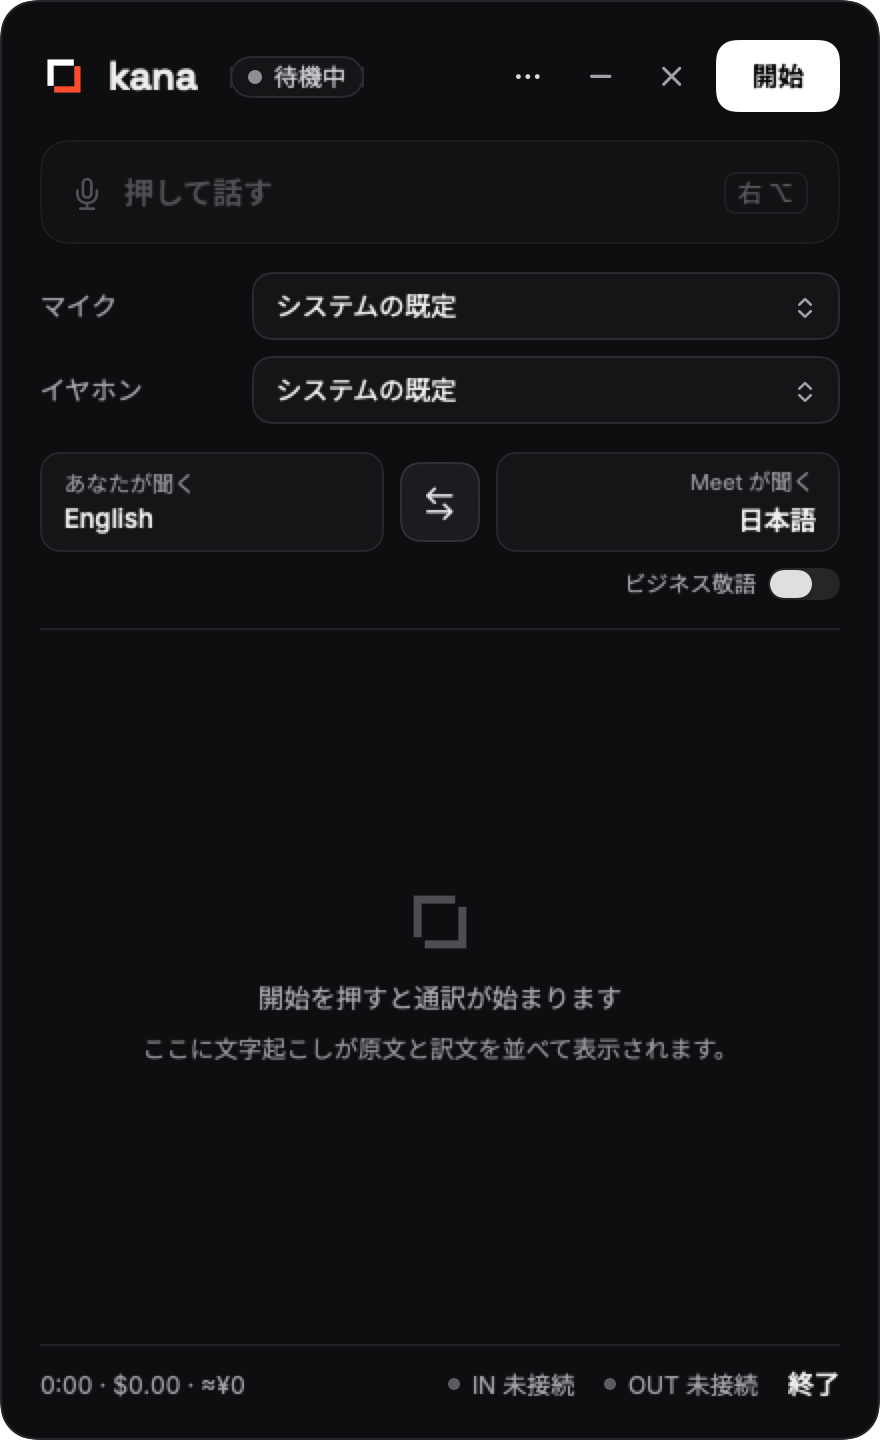
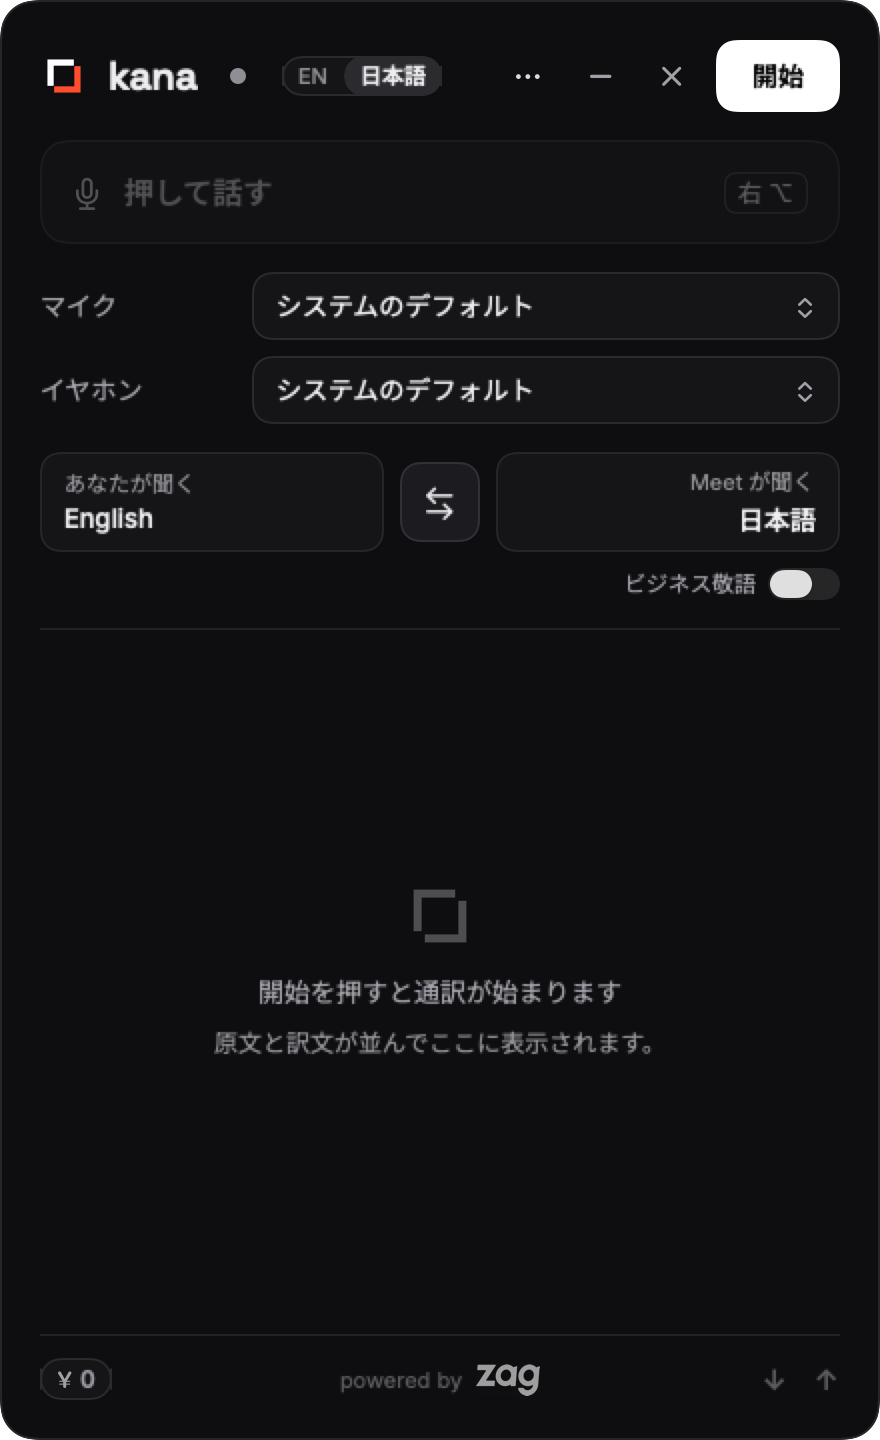
Language switch, first-run language card, Japanese proofread (snapshot of main)

diff --git a/app/Sources/Kana/LangSwitch.swift b/app/Sources/Kana/LangSwitch.swift
@@ -1,0 +1,62 @@
+import SwiftUI
+
+/// EN | 日本語, the visible UI-language switch (header of the panel and of Setup). Sets the
+/// override in Prefs, so it applies live; ••• › Language still offers "System".
+struct LangSwitch: View {
+    @EnvironmentObject private var prefs: Prefs
+
+    var body: some View {
+        HStack(spacing: 0) {
+            segment("EN", .en)
+            segment("日本語", .ja)
+        }
+        .background(Capsule().fill(Theme.surface))
+        .overlay(Capsule().strokeBorder(Theme.c(0x2A2A2F)))
+        .help(L10n.t("Language"))
+    }
+
+    private func segment(_ label: String, _ choice: L10n.Choice) -> some View {
+        _ = prefs.language   // observe the pref; the effective language also covers --lang renders
+        let on = L10n.lang == choice.rawValue
+        return Button { prefs.language = choice } label: {
+            Text(verbatim: label)
+                .font(Theme.ui(11, on ? 600 : 500))
+                .foregroundStyle(on ? Theme.text : Theme.text4)
+                .padding(.horizontal, 8)
+                .padding(.vertical, 3)
+                .background(Capsule().fill(on ? Theme.c(0x2A2A2F) : .clear))
+        }
+        .buttonStyle(.plain)
+        .accessibilityLabel(Text(verbatim: label))
+        .accessibilityAddTraits(on ? .isSelected : [])
+    }
+}
+
+/// First-run card at the top of Setup: pick the language before reading the steps.
+/// Shown until a language has been chosen once (the switch above also counts).
+struct LanguageChoiceCard: View {
+    @EnvironmentObject private var prefs: Prefs
+
+    static var needed: Bool { UserDefaults.standard.string(forKey: "uiLanguage") == nil }
+
+    var body: some View {
+        HStack(spacing: 12) {
+            VStack(alignment: .leading, spacing: 2) {
+                Text(verbatim: "Language · 言語")
+                    .font(Theme.ui(13, 600))
+                    .foregroundStyle(Theme.text)
+                Text(verbatim: "Choose the language for these steps. · この説明の言語を選んでください。")
+                    .font(Theme.ui(11))
+                    .foregroundStyle(Theme.text3)
+            }
+            Spacer(minLength: 8)
+            Button { prefs.language = .en } label: { Text(verbatim: "English") }
+                .buttonStyle(SmallButtonStyle())
+            Button { prefs.language = .ja } label: { Text(verbatim: "日本語") }
+                .buttonStyle(SmallButtonStyle())
+        }
+        .padding(12)
+        .background(RoundedRectangle(cornerRadius: 10).fill(Theme.surface))
+        .overlay(RoundedRectangle(cornerRadius: 10).strokeBorder(Theme.c(0x2A2A2F)))
+    }
+}

diff --git a/app/Sources/Kana/Setup.swift b/app/Sources/Kana/Setup.swift
@@ -265,6 +265,8 @@ struct SetupView: View {
     @EnvironmentObject private var engine: EngineProcess
     @EnvironmentObject private var actions: AppActions
     @EnvironmentObject private var prefs: Prefs
+    /// True until a UI language was chosen once; prefs.language changes re-render the view.
+    private var languageChoiceNeeded: Bool { _ = prefs.language; return LanguageChoiceCard.needed }
     var onDone: () -> Void
 
     @State private var keyField = ""
@@ -277,8 +279,10 @@ struct SetupView: View {
                 KanaMark(state: .idle, size: 24)
                 Text(L10n.t("Setup")).font(Theme.heading(L10n.t("Setup"), size: 20)).tracking(L10n.isJapanese ? 0 : -0.4)
                 Spacer()
+                LangSwitch().padding(.trailing, 6)
                 Button(L10n.t("Done"), action: onDone).buttonStyle(PrimaryButtonStyle())
             }
+            if languageChoiceNeeded { LanguageChoiceCard() }
             stepper
             ScrollView {
                 VStack(alignment: .leading, spacing: 10) {

diff --git a/app/Sources/Kana/PanelView.swift b/app/Sources/Kana/PanelView.swift
@@ -217,6 +217,9 @@ struct PanelView: View {
                     .padding(.leading, 2)
                     .help(StatePill(live: engine.running, passing: engine.passingThrough).word
                           + (engine.model == nil ? "" : "\n" + engine.engineTooltip))
+                LangSwitch()
+                    .padding(.leading, 4)
+                    .opacity(f.content)
                     .opacity(f.content)
             }
             Spacer(minLength: 4)

diff --git a/CHANGELOG.md b/CHANGELOG.md
@@ -8,6 +8,7 @@ The format is based on [Keep a Changelog](https://keepachangelog.com/en/1.1.0/),
 
 ### Added
 
+- **Language switch.** EN | 日本語 in the panel header and in Setup, applied live; on first run Setup asks for the language before the steps. Japanese strings proofread.
 - **Credit line.** "powered by zag" with the ZAG wordmark under the panel footer and at the end of Setup, in English and Japanese; click opens withzag.com. Trademark note in docs/BRAND.md and the READMEs.
 
 ## [0.1.0] - 2026-11-13
